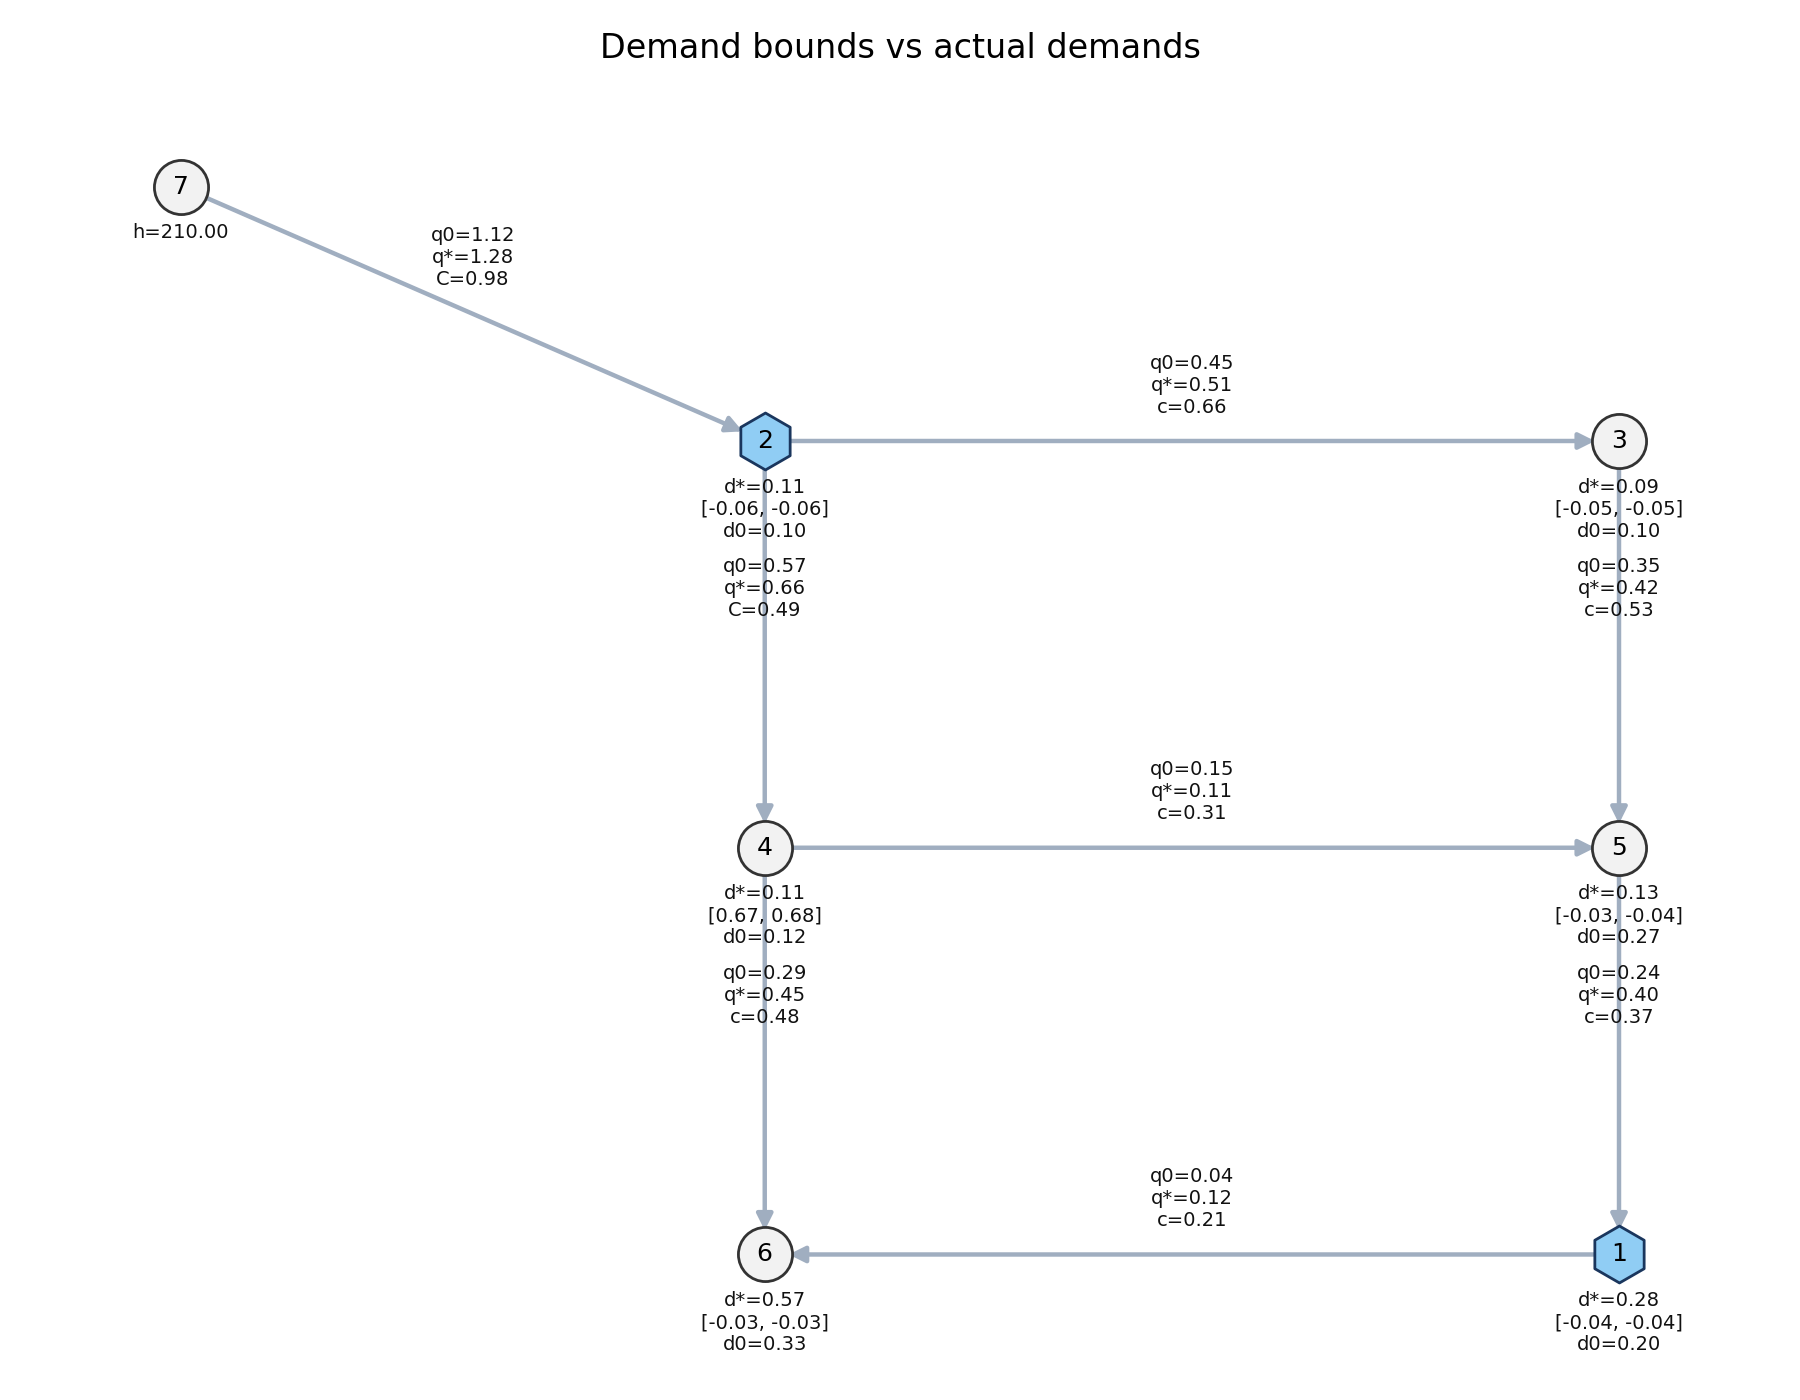
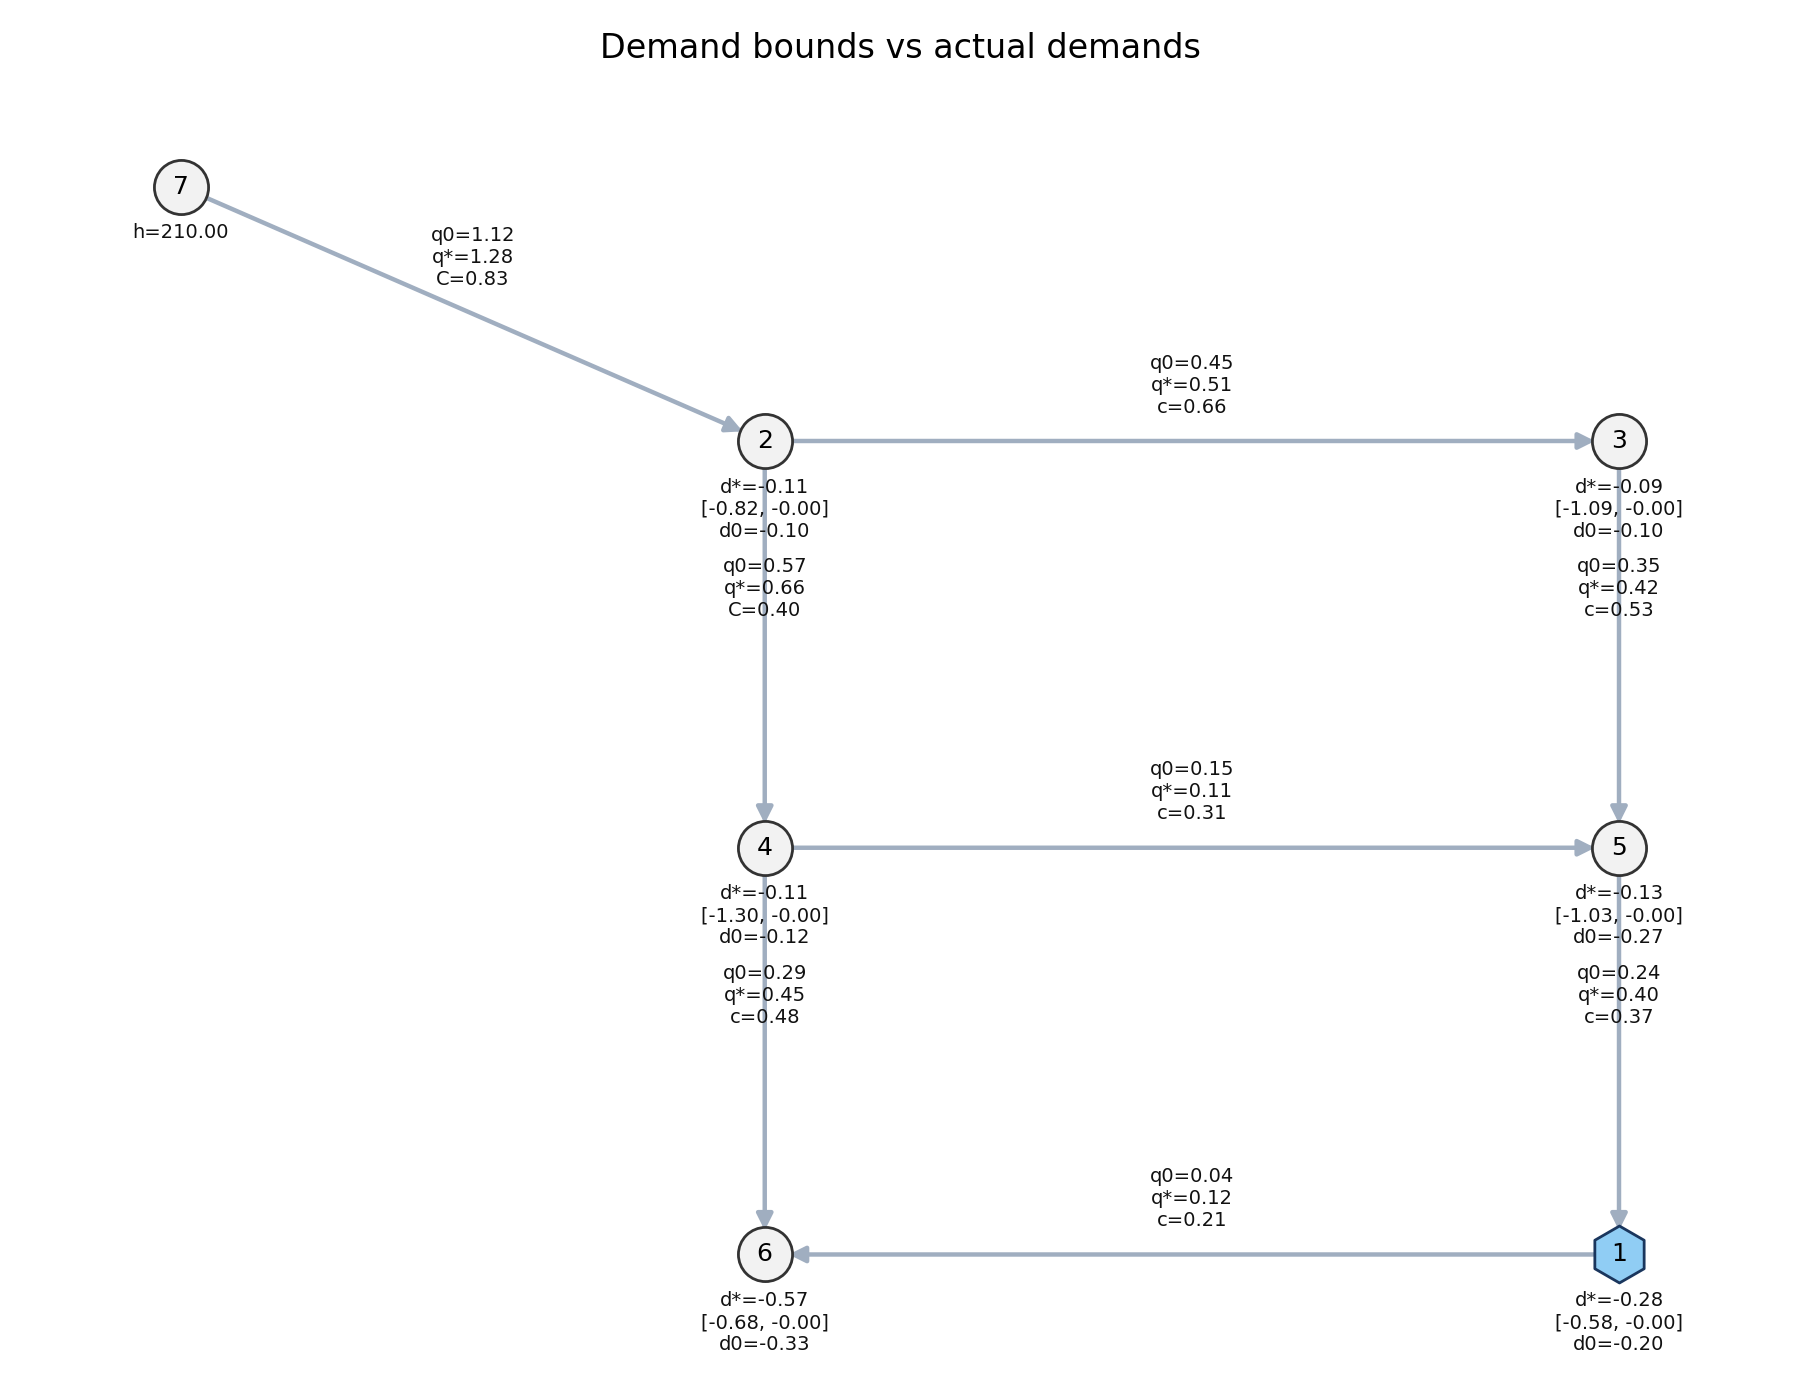
made the robust intervals work

diff --git a/step3_solver.py b/step3_solver.py
@@ -36,6 +36,15 @@ class SingleNodeResult:
     success: bool
 
 
+@dataclass(frozen=True)
+class FeasibilityResult:
+    flows: Dict[str, float]
+    heads: Dict[str, float]
+    max_violation: float
+    min_demand_viol: float
+    success: bool
+
+
 def _require_scipy() -> None:
     try:
         import scipy  # noqa: F401
@@ -100,6 +109,7 @@ def solve_demand_bounds(
     c_secondary: Dict[str, float],
     C_primary: Dict[str, float],
     pipe_resistances: Dict[str, float],
+    preferred_flow_sign: Optional[Dict[str, float]] = None,
     initial_guess: Optional[SolverResult] = None,
 ) -> DemandBounds:
     """
@@ -127,7 +137,14 @@ def solve_demand_bounds(
     pipe_secondary_set = set(pipe_secondary)
     for i, pipe_id in enumerate(pipes):
         if pipe_id in pipe_primary_set:
-            lower[i] = C_primary[pipe_id]
+            C_e = C_primary[pipe_id]
+            sign = 1.0
+            if preferred_flow_sign is not None and pipe_id in preferred_flow_sign:
+                sign = 1.0 if preferred_flow_sign[pipe_id] >= 0 else -1.0
+            if sign >= 0:
+                lower[i] = C_e
+            else:
+                upper[i] = -C_e
         elif pipe_id in pipe_secondary_set:
             c_e = c_secondary[pipe_id]
             lower[i] = -c_e
@@ -151,14 +168,15 @@ def solve_demand_bounds(
                 inflow[pipe.end_node] += q_e
             if pipe.start_node in outflow:
                 outflow[pipe.start_node] += q_e
-        return {j: inflow[j] - outflow[j] for j in junctions}
+        # Negative demand denotes consumption
+        return {j: outflow[j] - inflow[j] for j in junctions}
 
     def demand_ineq_fun(x: np.ndarray) -> np.ndarray:
         q = x[:n_q]
         d = demand_from_q(q)
         return np.array([d[j] for j in junctions], dtype=float)
 
-    demand_ineq = NonlinearConstraint(demand_ineq_fun, lb=np.zeros(n_h), ub=np.full(n_h, np.inf))
+    demand_ineq = NonlinearConstraint(demand_ineq_fun, lb=np.full(n_h, -np.inf), ub=np.zeros(n_h))
 
     if initial_guess is None:
         x0 = np.zeros(n_vars, dtype=float)
@@ -230,6 +248,7 @@ def solve_single_node_min(
     c_secondary: Dict[str, float],
     C_primary: Dict[str, float],
     pipe_resistances: Dict[str, float],
+    preferred_flow_sign: Optional[Dict[str, float]] = None,
     initial_guess: Optional[SolverResult] = None,
 ) -> SingleNodeResult:
     _require_scipy()
@@ -256,7 +275,14 @@ def solve_single_node_min(
     pipe_secondary_set = set(pipe_secondary)
     for i, pipe_id in enumerate(pipes):
         if pipe_id in pipe_primary_set:
-            lower[i] = C_primary[pipe_id]
+            C_e = C_primary[pipe_id]
+            sign = 1.0
+            if preferred_flow_sign is not None and pipe_id in preferred_flow_sign:
+                sign = 1.0 if preferred_flow_sign[pipe_id] >= 0 else -1.0
+            if sign >= 0:
+                lower[i] = C_e
+            else:
+                upper[i] = -C_e
         elif pipe_id in pipe_secondary_set:
             c_e = c_secondary[pipe_id]
             lower[i] = -c_e
@@ -280,14 +306,15 @@ def solve_single_node_min(
                 inflow[pipe.end_node] += q_e
             if pipe.start_node in outflow:
                 outflow[pipe.start_node] += q_e
-        return {j: inflow[j] - outflow[j] for j in junctions}
+        # Negative demand denotes consumption
+        return {j: outflow[j] - inflow[j] for j in junctions}
 
     def demand_ineq_fun(x: np.ndarray) -> np.ndarray:
         q = x[:n_q]
         d = demand_from_q(q)
         return np.array([d[j] for j in junctions], dtype=float)
 
-    demand_ineq = NonlinearConstraint(demand_ineq_fun, lb=np.zeros(n_h), ub=np.full(n_h, np.inf))
+    demand_ineq = NonlinearConstraint(demand_ineq_fun, lb=np.full(n_h, -np.inf), ub=np.zeros(n_h))
 
     if initial_guess is None:
         x0 = np.zeros(n_vars, dtype=float)
@@ -327,6 +354,115 @@ def solve_single_node_min(
         demands=d_sol,
         heads=h_sol,
         flows=q_sol,
+        max_violation=max_violation,
+        min_demand_viol=min_demand_viol,
+        success=bool(res.success),
+    )
+
+
+def solve_feasibility(
+    network: NetworkData,
+    sensor_heads: Dict[str, float],
+    pipe_primary: Iterable[str],
+    pipe_secondary: Iterable[str],
+    c_secondary: Dict[str, float],
+    C_primary: Dict[str, float],
+    pipe_resistances: Dict[str, float],
+    preferred_flow_sign: Optional[Dict[str, float]] = None,
+    initial_guess: Optional[SolverResult] = None,
+) -> FeasibilityResult:
+    _require_scipy()
+    from scipy.optimize import Bounds, NonlinearConstraint, minimize
+
+    reservoir_nodes = set(network.reservoirs.keys())
+    fixed_heads = dict(sensor_heads)
+    for res_id, res_node in network.reservoirs.items():
+        if res_id not in fixed_heads:
+            fixed_heads[res_id] = res_node.elevation_m
+
+    junctions, pipes = _build_index_maps(network, reservoir_nodes)
+    n_q = len(pipes)
+    n_h = len(junctions)
+    n_vars = n_q + n_h
+
+    lower = np.full(n_vars, -np.inf, dtype=float)
+    upper = np.full(n_vars, np.inf, dtype=float)
+
+    pipe_primary_set = set(pipe_primary)
+    pipe_secondary_set = set(pipe_secondary)
+    for i, pipe_id in enumerate(pipes):
+        if pipe_id in pipe_primary_set:
+            C_e = C_primary[pipe_id]
+            sign = 1.0
+            if preferred_flow_sign is not None and pipe_id in preferred_flow_sign:
+                sign = 1.0 if preferred_flow_sign[pipe_id] >= 0 else -1.0
+            if sign >= 0:
+                lower[i] = C_e
+            else:
+                upper[i] = -C_e
+        elif pipe_id in pipe_secondary_set:
+            c_e = c_secondary[pipe_id]
+            lower[i] = -c_e
+            upper[i] = c_e
+
+    bounds = Bounds(lower, upper)
+
+    def constraints_fun(x: np.ndarray) -> np.ndarray:
+        return _constraints_residuals(x, junctions, pipes, network, fixed_heads, pipe_resistances)
+
+    n_constraints = n_q + sum(1 for n in fixed_heads if n in junctions)
+    constraints = NonlinearConstraint(constraints_fun, lb=np.zeros(n_constraints), ub=np.zeros(n_constraints))
+
+    def demand_from_q(q: np.ndarray) -> Dict[str, float]:
+        inflow = {j: 0.0 for j in junctions}
+        outflow = {j: 0.0 for j in junctions}
+        for idx, pipe_id in enumerate(pipes):
+            pipe = network.pipes[pipe_id]
+            q_e = q[idx]
+            if pipe.end_node in inflow:
+                inflow[pipe.end_node] += q_e
+            if pipe.start_node in outflow:
+                outflow[pipe.start_node] += q_e
+        # Negative demand denotes consumption
+        return {j: outflow[j] - inflow[j] for j in junctions}
+
+    def demand_ineq_fun(x: np.ndarray) -> np.ndarray:
+        q = x[:n_q]
+        d = demand_from_q(q)
+        return np.array([d[j] for j in junctions], dtype=float)
+
+    demand_ineq = NonlinearConstraint(demand_ineq_fun, lb=np.full(n_h, -np.inf), ub=np.zeros(n_h))
+
+    if initial_guess is None:
+        x0 = np.zeros(n_vars, dtype=float)
+    else:
+        q0 = np.array([initial_guess.flows.get(pid, 0.0) for pid in pipes], dtype=float)
+        h0 = np.array([initial_guess.heads.get(j, 0.0) for j in junctions], dtype=float)
+        x0 = np.concatenate([q0, h0])
+
+    def obj(x: np.ndarray) -> float:
+        return float(np.sum(constraints_fun(x) ** 2))
+
+    res = minimize(
+        obj,
+        x0,
+        method="trust-constr",
+        constraints=[constraints, demand_ineq],
+        bounds=bounds,
+        options={"maxiter": 4000, "verbose": 0},
+    )
+
+    q_sol = {pipes[i]: float(res.x[i]) for i in range(n_q)}
+    h_sol = {junctions[i]: float(res.x[n_q + i]) for i in range(n_h)}
+    for node_id, head_val in fixed_heads.items():
+        h_sol[node_id] = float(head_val)
+
+    max_violation = float(np.max(np.abs(constraints_fun(res.x))))
+    min_demand_viol = float(np.min(demand_ineq_fun(res.x)))
+
+    return FeasibilityResult(
+        flows=q_sol,
+        heads=h_sol,
         max_violation=max_violation,
         min_demand_viol=min_demand_viol,
         success=bool(res.success),

diff --git a/inverse.py b/inverse.py
@@ -10,7 +10,9 @@ from step3_solver import (
 	DemandBounds,
 	SolverResult,
 	SingleNodeResult,
+	FeasibilityResult,
 	solve_demand_bounds,
+	solve_feasibility,
 	solve_single_node_min,
 )
 
@@ -286,7 +288,7 @@ def main() -> None:
 		n_scenarios=200,
 		demand_log_sigma=0.3,
 		q_secondary_quantile=0.99,
-		q_primary_quantile=0.10,
+		q_primary_quantile=0.01,
 		seed=1,
 		simulator="auto",
 	)
@@ -300,14 +302,15 @@ def main() -> None:
 		C_primary=stats.C_primary,
 	)
 
-	scenario_demands, scenario_heads, scenario_flows = simulate_single_random_scenario(
+	scenario_demands_pos, scenario_heads, scenario_flows = simulate_single_random_scenario(
 		inp_path=inp_path,
 		demand_log_sigma=0.3,
 		seed=2,
 		simulator="auto",
 	)
+	scenario_demands = {k: -v for k, v in scenario_demands_pos.items()}
 
-	measurement_nodes = ["1", "2"]
+	measurement_nodes = ["1"]
 	sensor_heads = {node_id: scenario_heads[node_id] for node_id in measurement_nodes if node_id in scenario_heads}
 	for res_id in network.reservoirs.keys():
 		if res_id in scenario_heads:
@@ -321,6 +324,36 @@ def main() -> None:
 	)
 
 	pipe_resistances = {pid: vals["r_e"] for pid, vals in resistances.items()}
+	for pid, pipe in network.pipes.items():
+		q = scenario_flows.get(pid, 0.0)
+		if abs(q) < 1e-8:
+			continue
+		hu = scenario_heads.get(pipe.start_node, None)
+		hv = scenario_heads.get(pipe.end_node, None)
+		if hu is None or hv is None:
+			continue
+		pipe_resistances[pid] = (hu - hv) / (abs(q) * q)
+	preferred_flow_sign = {pid: q for pid, q in scenario_flows.items()}
+
+	feasible = solve_feasibility(
+		network=network,
+		sensor_heads=sensor_heads,
+		pipe_primary=primary_pipes,
+		pipe_secondary=secondary_pipes,
+		c_secondary=stats.c_secondary,
+		C_primary=stats.C_primary,
+		pipe_resistances=pipe_resistances,
+		preferred_flow_sign=preferred_flow_sign,
+		initial_guess=initial_guess,
+	)
+	print("Feasibility result:")
+	print(f"success={feasible.success}, max_violation={feasible.max_violation:.3e}, min_demand_viol={feasible.min_demand_viol:.3e}", flush=True)
+	initial_guess = SolverResult(
+		status="feasible",
+		demands=scenario_demands,
+		heads=feasible.heads,
+		flows=feasible.flows,
+	)
 	bounds = solve_demand_bounds(
 		network=network,
 		sensor_heads=sensor_heads,
@@ -329,6 +362,7 @@ def main() -> None:
 		c_secondary=stats.c_secondary,
 		C_primary=stats.C_primary,
 		pipe_resistances=pipe_resistances,
+		preferred_flow_sign=preferred_flow_sign,
 		initial_guess=initial_guess,
 	)
 
@@ -342,7 +376,7 @@ def main() -> None:
 	print(f"Min demand constraint (min): {min_demand_viol:.3e}")
 	print(f"Min demand constraint (max): {max_demand_viol:.3e}")
 
-	base_demands = {node_id: node.base_demand for node_id, node in network.junctions.items()}
+	base_demands = {node_id: -node.base_demand for node_id, node in network.junctions.items()}
 
 	plot_demand_bounds(
 		inp_path=inp_path,
@@ -366,6 +400,7 @@ def main() -> None:
 		c_secondary=stats.c_secondary,
 		C_primary=stats.C_primary,
 		pipe_resistances=pipe_resistances,
+		preferred_flow_sign=preferred_flow_sign,
 		initial_guess=initial_guess,
 	)
 
